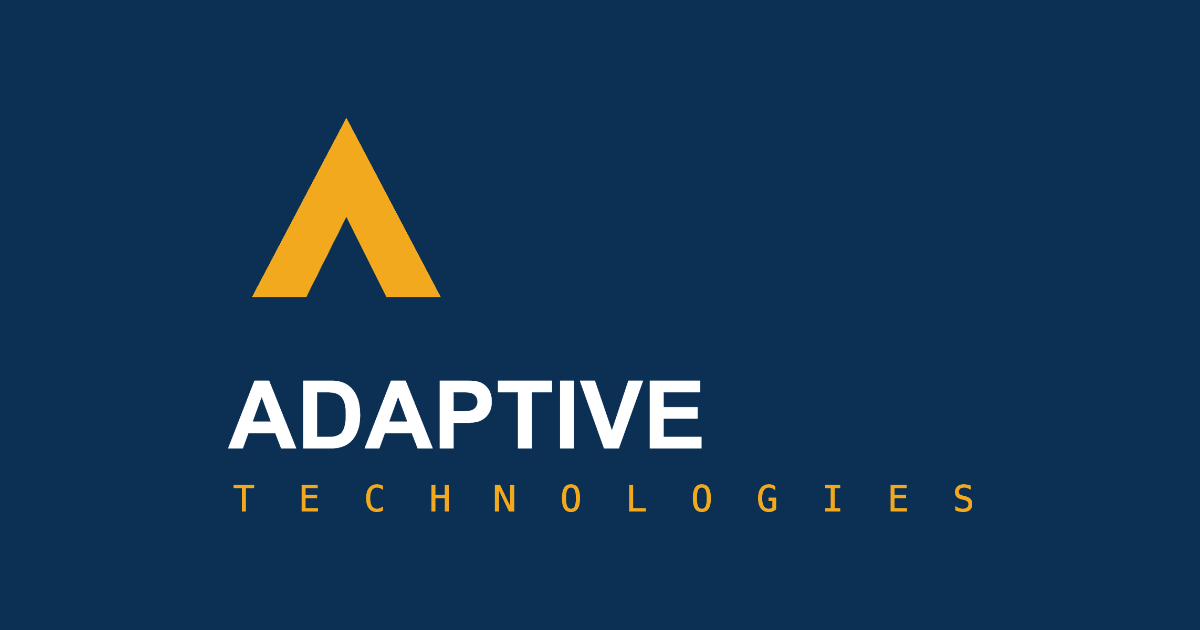
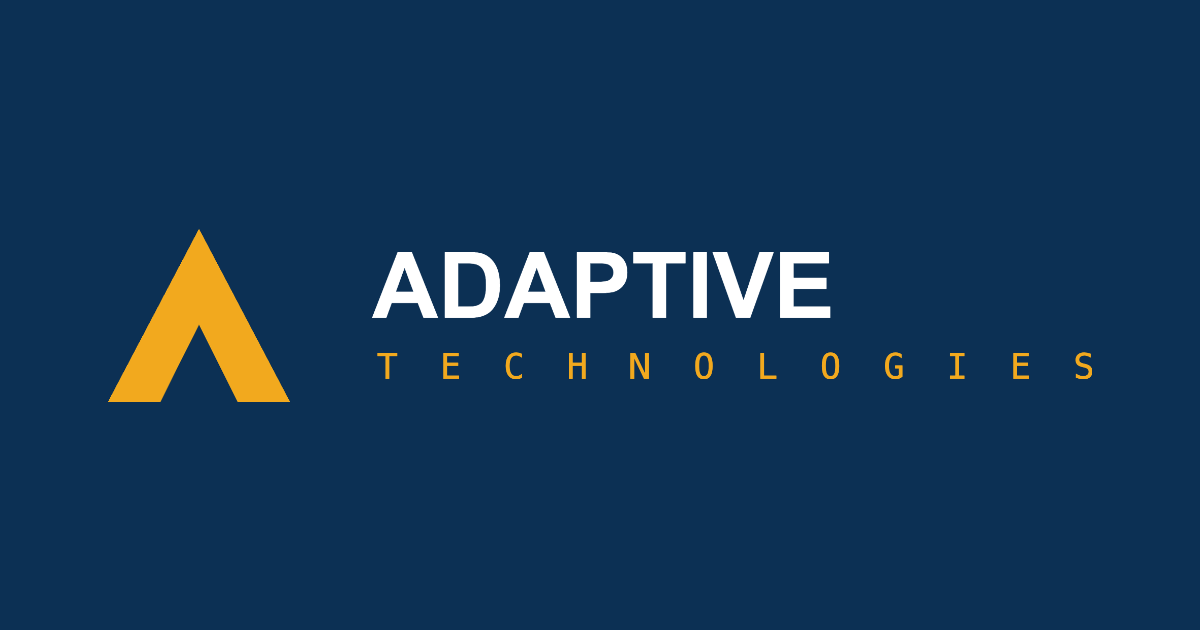
feat(seo): lay the share card out horizontally
The mark sat above the text because that is how the source banner stacks
it, and scaling the lockup as one block kept that arrangement. The card
reads better with the mark beside the text.

So the three bands are now lifted as separate blocks and repositioned:
the gold A-mark on the left, and the two text lines -- ADAPTIVE and the
letterspaced line under it -- lifted together as one block on the right,
so their internal spacing and shared left edge survive untouched.

Two things are measured off the banner rather than invented. The bands are
found by scanning for inked rows and splitting on the blank rows between
them, so a re-exported banner still works instead of cropping to stale
coordinates -- and finding anything other than three bands is a hard stop,
not a mangled card. And the horizontal gap reuses the banner's own 160px
mark-to-text distance, which is the spacing the brand already sets between
exactly these two elements.

diff --git a/tools/make-og-image.js b/tools/make-og-image.js
@@ -6,10 +6,13 @@
 // geometry to draw from either.
 //
 // What there IS: a 4500x1500 banner with the lockup already rendered in the
-// real brand fonts. So rather than compose type we cannot set, this lifts
-// that rendered lockup and re-lays it out at the Open Graph aspect ratio.
-// A centre crop was not an option: the lockup sits in the left third and the
-// middle 64% a 3:1 -> 1.91:1 crop keeps would cut it in half.
+// real brand fonts. So rather than set type we cannot set, this lifts the
+// rendered artwork out of that banner and re-lays it out.
+//
+// The banner stacks the lockup vertically (mark ABOVE the text). The share
+// card wants it horizontal (mark BESIDE the text), which is why the three
+// bands are lifted as separate blocks and repositioned, rather than the whole
+// lockup being scaled as one.
 const fs = require('fs');
 const path = require('path');
 const { decode, encode } = require('./lib/png.js');
@@ -18,72 +21,133 @@ const SOCIAL = path.join(__dirname, '..', 'website', 'assets', 'social');
 const SRC = path.join(SOCIAL, 'banner-4500x1500.png');
 const OUT = path.join(SOCIAL, 'og-1200x630.png');
 
+const W = 1200, H = 630;
+
+// Everything right of this is a SEPARATE element sitting at x~3350-4250, not
+// part of the lockup. Without the cap it drags every measurement across the
+// whole banner. Load-bearing.
+const XCAP = 2000;
+
+// How much of the card's width the finished lockup spans. The rest is margin,
+// which matters because several platforms round the card's corners or lay
+// their own chrome over its edges.
+const WIDTH_FRACTION = 0.82;
+
 const src = decode(fs.readFileSync(SRC));
-const at = (img, x, y) => {
-  const d = (y * img.width + x) * 4;
-  return [img.px[d], img.px[d + 1], img.px[d + 2]];
+const at = (x, y) => {
+  const d = (y * src.width + x) * 4;
+  return [src.px[d], src.px[d + 1], src.px[d + 2]];
+};
+const isInk = (p) => {
+  const gold = p[0] > 150 && p[1] > 100 && p[2] < 120;
+  const light = p[0] > 150 && p[1] > 160 && p[2] > 170;
+  return gold || light;
 };
 
-// ── Tight bounds of the LEFT lockup only. Three parts, and all three must be
-//    inside the box: the gold A-mark (y~460-800), the light ADAPTIVE wordmark
-//    (y~950-1090, ending x~1440), and a letterspaced GOLD tagline under it
-//    (y~1156-1210) that runs out to x~1926. That tagline is why the box is
-//    ~1416px wide and not ~940 -- the ink past x=1440 is type, not stray
-//    antialiasing, so do not 'tidy' the bounds inward.
-//
-//    The x<2000 cap is what keeps the SEPARATE element at x~3350-4250 from
-//    dragging the box across the whole banner. It is load-bearing.
-let minX = 1e9, maxX = -1, minY = 1e9, maxY = -1;
-for (let y = 0; y < src.height; y++) {
-  for (let x = 0; x < 2000; x++) {
-    const [r, g, b] = at(src, x, y);
-    const gold = r > 150 && g > 100 && b < 120;
-    const light = r > 150 && g > 160 && b > 170;
-    if (gold || light) {
-      if (x < minX) minX = x; if (x > maxX) maxX = x;
-      if (y < minY) minY = y; if (y > maxY) maxY = y;
-    }
+// ── Find the bands by scanning for rows that carry ink, then splitting on the
+//    blank rows between them. Measured rather than hardcoded, so a re-exported
+//    banner still works instead of silently cropping to stale coordinates.
+function findBands() {
+  const inked = [];
+  for (let y = 0; y < src.height; y++) {
+    let n = 0;
+    for (let x = 0; x < XCAP; x++) if (isInk(at(x, y))) n++;
+    inked.push(n > 0);
   }
-}
-console.log('lockup bounds:', minX + '..' + maxX, minY + '..' + maxY,
-            '(' + (maxX - minX) + 'x' + (maxY - minY) + ')');
+  const bands = [];
+  let start = -1;
+  for (let y = 0; y < src.height; y++) {
+    if (inked[y] && start < 0) start = y;
+    else if (!inked[y] && start >= 0) { bands.push([start, y - 1]); start = -1; }
+  }
+  if (start >= 0) bands.push([start, src.height - 1]);
 
-const BG = at(src, 2, 2);                       // the banner's own navy
-const W = 1200, H = 630;
+  return bands.map(([y0, y1]) => {
+    let x0 = Infinity, x1 = -1;
+    for (let y = y0; y <= y1; y++) {
+      for (let x = 0; x < XCAP; x++) {
+        if (!isInk(at(x, y))) continue;
+        if (x < x0) x0 = x;
+        if (x > x1) x1 = x;
+      }
+    }
+    return { x0, y0, x1, y1, w: x1 - x0 + 1, h: y1 - y0 + 1 };
+  });
+}
+
+const bands = findBands();
+// Three: the gold A-mark, the light ADAPTIVE wordmark, and a letterspaced gold
+// line under it. Anything else means the banner changed shape and the layout
+// below no longer describes it -- stop rather than emit a mangled card.
+if (bands.length !== 3) {
+  console.error('expected 3 lockup bands, found ' + bands.length);
+  for (const b of bands) console.error('  y ' + b.y0 + '-' + b.y1 + '  x ' + b.x0 + '-' + b.x1);
+  process.exit(1);
+}
+
+const mark = bands[0];
+// The two text lines are lifted as ONE block spanning both, so their internal
+// spacing and their left alignment survive exactly as the brand sets them.
+const text = {
+  x0: Math.min(bands[1].x0, bands[2].x0),
+  y0: bands[1].y0,
+  x1: Math.max(bands[1].x1, bands[2].x1),
+  y1: bands[2].y1,
+};
+text.w = text.x1 - text.x0 + 1;
+text.h = text.y1 - text.y0 + 1;
+
+// Reuse the banner's OWN mark-to-text distance as the horizontal gap, rather
+// than inventing a number: it is the spacing the brand already sets between
+// these two elements.
+const gap = bands[1].y0 - mark.y1;
+
+const lockupW = mark.w + gap + text.w;
+const lockupH = Math.max(mark.h, text.h);
+const scale = (W * WIDTH_FRACTION) / lockupW;
+
+console.log('mark  ' + mark.w + 'x' + mark.h + '   text ' + text.w + 'x' + text.h + '   gap ' + gap);
+console.log('lockup ' + lockupW + 'x' + lockupH + ' -> scale ' + scale.toFixed(4));
+
 const out = { width: W, height: H, px: Buffer.alloc(W * H * 4) };
+const BG = at(2, 2);                                  // the banner's own navy
 for (let i = 0; i < W * H; i++) {
   out.px[i * 4] = BG[0]; out.px[i * 4 + 1] = BG[1];
   out.px[i * 4 + 2] = BG[2]; out.px[i * 4 + 3] = 255;
 }
 
-// ── Place the lockup centred, at 62% of the canvas width. That leaves a
-//    generous margin on all sides, which matters because several platforms
-//    round the corners or overlay a play/label chrome at the edges.
-const lw = maxX - minX + 1, lh = maxY - minY + 1;
-const targetW = Math.round(W * 0.62);
-const scale = targetW / lw;
-const dw = Math.round(lw * scale), dh = Math.round(lh * scale);
-const ox = Math.round((W - dw) / 2), oy = Math.round((H - dh) / 2);
-console.log('placing', dw + 'x' + dh, 'at', ox + ',' + oy, '(scale ' + scale.toFixed(3) + ')');
-
-// Bilinear sampling, so downscaling type stays legible rather than aliasing.
-for (let y = 0; y < dh; y++) {
-  for (let x = 0; x < dw; x++) {
-    const sx = minX + (x / scale), sy = minY + (y / scale);
-    const x0 = Math.floor(sx), y0 = Math.floor(sy);
-    const x1 = Math.min(x0 + 1, src.width - 1), y1 = Math.min(y0 + 1, src.height - 1);
-    const fx = sx - x0, fy = sy - y0;
-    const d = ((oy + y) * W + (ox + x)) * 4;
-    for (let c = 0; c < 3; c++) {
-      const p = (X, Y) => src.px[(Y * src.width + X) * 4 + c];
-      const top = p(x0, y0) * (1 - fx) + p(x1, y0) * fx;
-      const bot = p(x0, y1) * (1 - fx) + p(x1, y1) * fx;
-      out.px[d + c] = Math.round(top * (1 - fy) + bot * fy);
+// Bilinear, so downscaled type stays legible instead of aliasing to crumbs.
+function draw(region, dx, dy, dw, dh) {
+  const kx = region.w / dw, ky = region.h / dh;
+  for (let y = 0; y < dh; y++) {
+    for (let x = 0; x < dw; x++) {
+      const sx = region.x0 + x * kx, sy = region.y0 + y * ky;
+      const x0 = Math.floor(sx), y0 = Math.floor(sy);
+      const x1 = Math.min(x0 + 1, src.width - 1), y1 = Math.min(y0 + 1, src.height - 1);
+      const fx = sx - x0, fy = sy - y0;
+      const d = ((dy + y) * W + (dx + x)) * 4;
+      for (let c = 0; c < 3; c++) {
+        const p = (X, Y) => src.px[(Y * src.width + X) * 4 + c];
+        const top = p(x0, y0) * (1 - fx) + p(x1, y0) * fx;
+        const bot = p(x0, y1) * (1 - fx) + p(x1, y1) * fx;
+        out.px[d + c] = Math.round(top * (1 - fy) + bot * fy);
+      }
+      out.px[d + 3] = 255;
     }
-    out.px[d + 3] = 255;
   }
 }
 
+const dLockupW = Math.round(lockupW * scale), dLockupH = Math.round(lockupH * scale);
+const ox = Math.round((W - dLockupW) / 2), oy = Math.round((H - dLockupH) / 2);
+
+// Mark left, text right, each centred on the shared vertical axis -- the mark
+// is the taller of the two, so it overhangs the text block top and bottom.
+const dMarkW = Math.round(mark.w * scale), dMarkH = Math.round(mark.h * scale);
+const dTextW = Math.round(text.w * scale), dTextH = Math.round(text.h * scale);
+
+draw(mark, ox, oy + Math.round((dLockupH - dMarkH) / 2), dMarkW, dMarkH);
+draw(text, ox + Math.round((mark.w + gap) * scale),
+     oy + Math.round((dLockupH - dTextH) / 2), dTextW, dTextH);
+
 fs.writeFileSync(OUT, encode(out));
-const kb = (fs.statSync(OUT).size / 1024).toFixed(0);
-console.log('wrote og-1200x630.png (' + kb + ' KB)');
+console.log('wrote og-1200x630.png (' + (fs.statSync(OUT).size / 1024).toFixed(0) + ' KB)');
